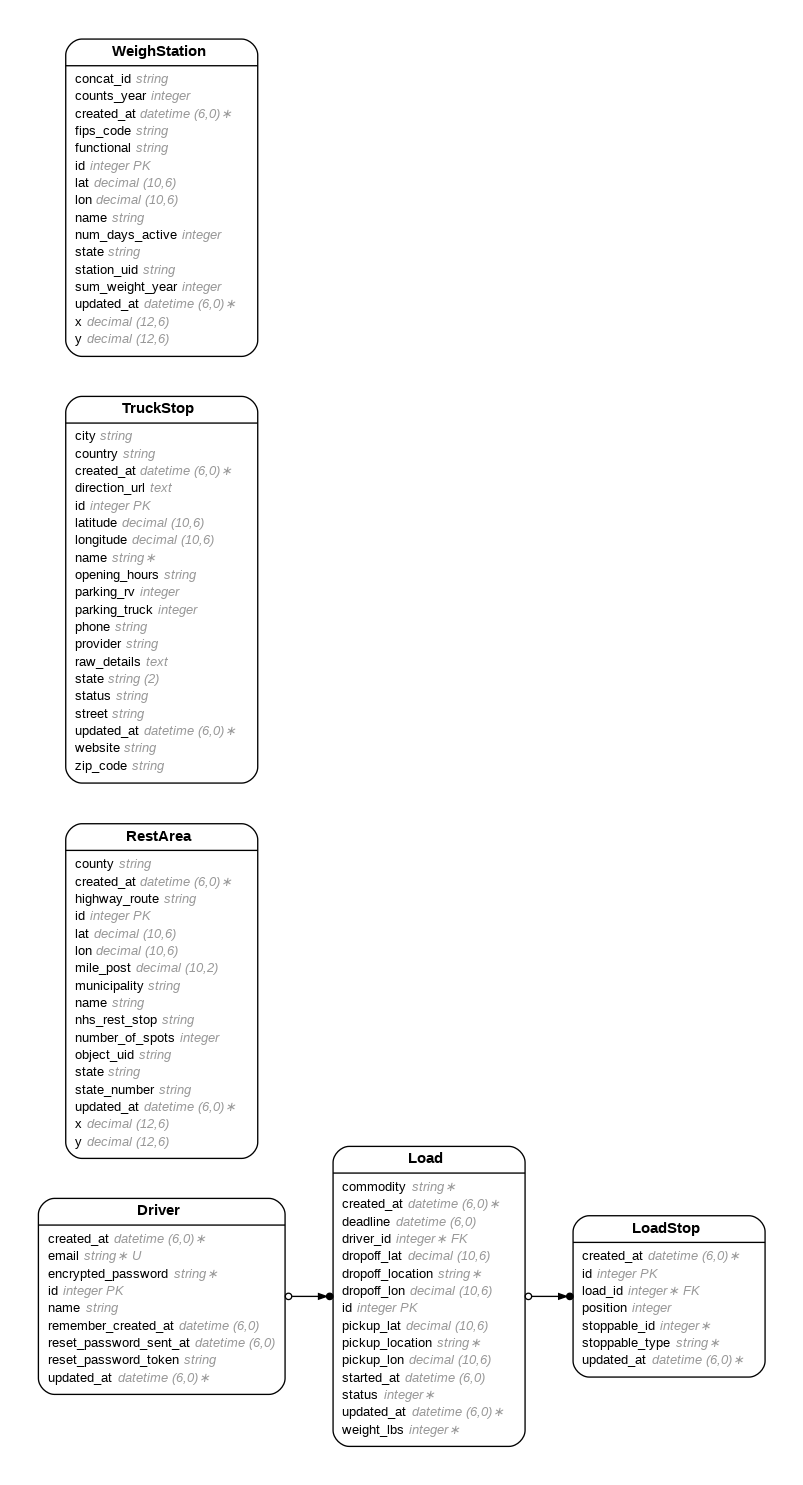
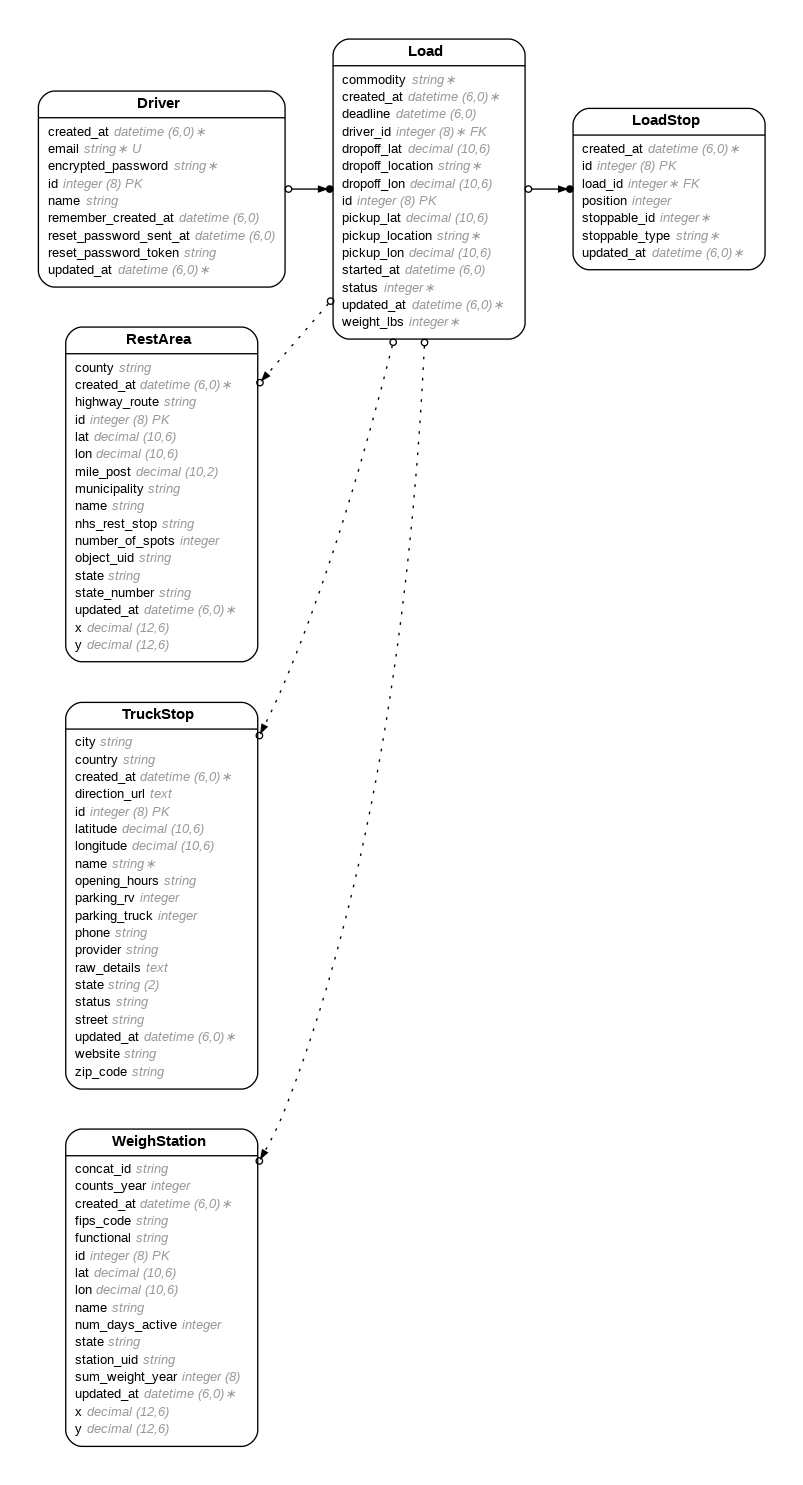
removedsqlite and reinstate postgres due to messed up yml file in github workflow, re-seed data again

diff --git a/app/models/load_stop.rb b/app/models/load_stop.rb
@@ -2,7 +2,7 @@
 #
 # Table name: load_stops
 #
-#  id             :integer          not null, primary key
+#  id             :bigint           not null, primary key
 #  position       :integer
 #  stoppable_type :string           not null
 #  created_at     :datetime         not null
@@ -18,7 +18,7 @@
 #
 # Foreign Keys
 #
-#  load_id  (load_id => loads.id)
+#  fk_rails_...  (load_id => loads.id)
 #
 class LoadStop < ApplicationRecord
   belongs_to :load

diff --git a/db/schema.rb b/db/schema.rb
@@ -11,6 +11,9 @@
 # It's strongly recommended that you check this file into your version control system.
 
 ActiveRecord::Schema[8.0].define(version: 2025_09_03_025301) do
+  # These are extensions that must be enabled in order to support this database
+  enable_extension "pg_catalog.plpgsql"
+
   create_table "drivers", force: :cascade do |t|
     t.string "email", default: "", null: false
     t.string "encrypted_password", default: "", null: false

diff --git a/app/models/load.rb b/app/models/load.rb
@@ -2,7 +2,7 @@
 #
 # Table name: loads
 #
-#  id               :integer          not null, primary key
+#  id               :bigint           not null, primary key
 #  commodity        :string
 #  deadline         :datetime
 #  dropoff_lat      :decimal(10, 6)
@@ -24,7 +24,7 @@
 #
 # Foreign Keys
 #
-#  driver_id  (driver_id => drivers.id)
+#  fk_rails_...  (driver_id => drivers.id)
 #
 # app/models/load.rb
 class Load < ApplicationRecord

diff --git a/app/models/driver.rb b/app/models/driver.rb
@@ -2,7 +2,7 @@
 #
 # Table name: drivers
 #
-#  id                     :integer          not null, primary key
+#  id                     :bigint           not null, primary key
 #  email                  :string           default(""), not null
 #  encrypted_password     :string           default(""), not null
 #  name                   :string

diff --git a/app/models/truck_stop.rb b/app/models/truck_stop.rb
@@ -3,7 +3,7 @@
 #
 # Table name: truck_stops
 #
-#  id            :integer          not null, primary key
+#  id            :bigint           not null, primary key
 #  city          :string
 #  country       :string           default("US")
 #  direction_url :text

diff --git a/app/models/rest_area.rb b/app/models/rest_area.rb
@@ -2,7 +2,7 @@
 #
 # Table name: rest_areas
 #
-#  id              :integer          not null, primary key
+#  id              :bigint           not null, primary key
 #  county          :string
 #  highway_route   :string
 #  lat             :decimal(10, 6)

diff --git a/app/models/weigh_station.rb b/app/models/weigh_station.rb
@@ -2,7 +2,7 @@
 #
 # Table name: weigh_stations
 #
-#  id              :integer          not null, primary key
+#  id              :bigint           not null, primary key
 #  counts_year     :integer
 #  fips_code       :string
 #  functional      :string
